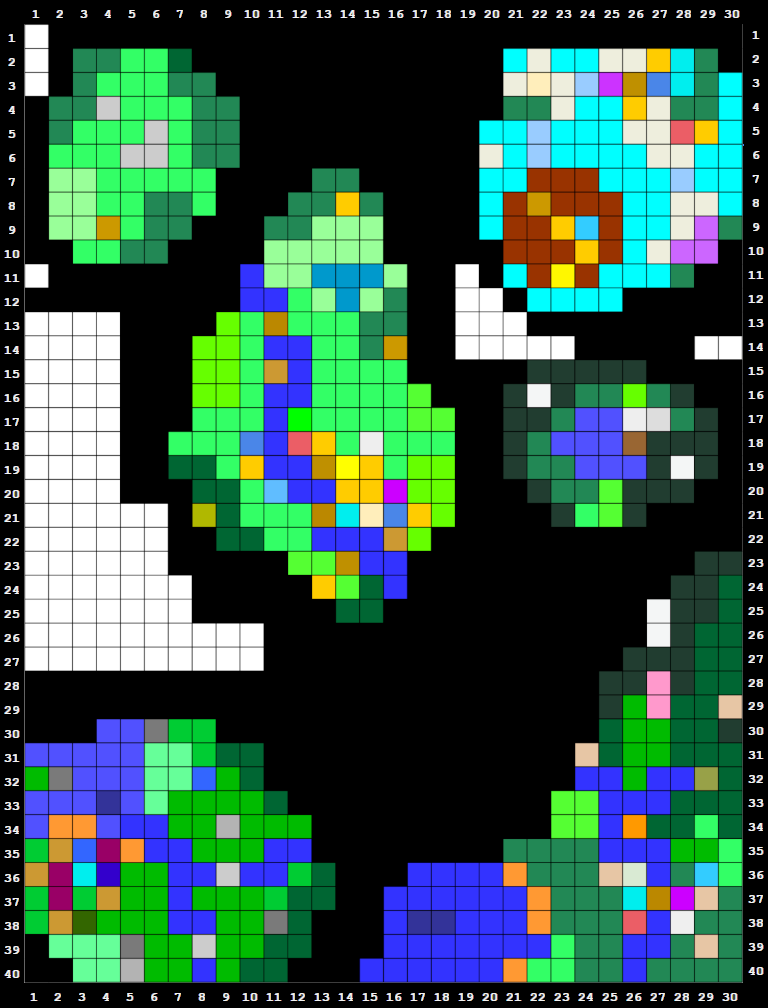
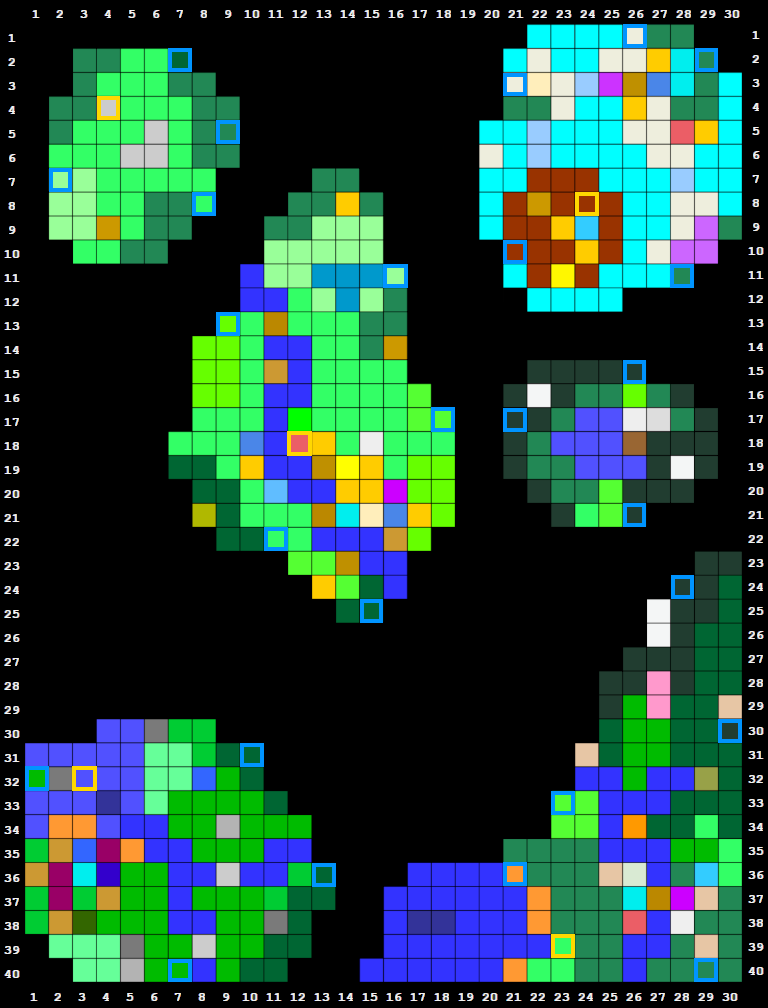
Updated

diff --git a/script.js b/script.js
@@ -859,12 +859,16 @@ createPortal( [encodeLocation(11,29,0),1,encodeLocation(12,34,1)] , ["Portal"], 
 createPortal( [encodeLocation(1,13,0),1,encodeLocation(1,13,1)] , ["Portal"], [5]);
 createPortal( [encodeLocation(39,39,0),1,encodeLocation(2,37,2)] , ["Portal"], [10]);
 createPortal( [encodeLocation(24,26,0),1,encodeLocation(12,18,1)] , ["Portal"], [10]);	// updated
+createPortal( [encodeLocation(12,18,1),1,encodeLocation(24,26,0)] , ["Portal"], [10]);	// updated
 createPortal( [encodeLocation(11,29,0),1,encodeLocation(12,34,1)] , ["Portal"], [5]);
-createPortal( [encodeLocation(22,38,0),1,encodeLocation(3,32,1)] , ["Portal"], [5]);    // pdated
+createPortal( [encodeLocation(22,38,0),1,encodeLocation(3,32,1)] , ["Portal"], [5]);    // Updated
+createPortal( [encodeLocation(3,32,1),1,encodeLocation(22,38,0)] , ["Portal"], [5]);    // Updated
 createPortal( [encodeLocation(18,18,0),1,encodeLocation(11,13,2)] , ["Portal"], [5]);
 createPortal( [encodeLocation(38,31,0),1,encodeLocation(28,31,2)] , ["Portal"], [5]);
 createPortal( [encodeLocation(39,14,0),1,encodeLocation(4,4,1)] , ["Portal"], [5]);    // updated
+createPortal( [encodeLocation(4,4,1),1,encodeLocation(39,14,0)] , ["Portal"], [5]);    // updated    
 createPortal( [encodeLocation(22,1,0),1,encodeLocation(24,8,1)] , ["Portal"], [5]);    // updated
+createPortal( [encodeLocation(24,8,1),1,encodeLocation(22,1,0)] , ["Portal"], [5]);    // updated
 createPortal( [encodeLocation(8,34,0),1,encodeLocation(24,27,2)] , ["Portal"], [10]);
 createPortal( [encodeLocation(15,10,0),2,encodeLocation(25,7,2),encodeLocation(15,10,3)] , ["Portal", "Sewer Entrance"], [10,0]);
 
@@ -913,19 +917,34 @@ createPortal( [encodeLocation(34,36,0),7,encodeLocation(26,3,0),encodeLocation(1
 
 
 // ELYSIUM
-createPortal( [encodeLocation(4,4,1),1,encodeLocation(24,26,0)] , ["Portal"], [10]);
-createPortal( [encodeLocation(1,13,1),1,encodeLocation(1,13,0)] , ["Portal"], [5]);
-
-createPortal( [encodeLocation(7,6,1),3,encodeLocation(25,7,1),encodeLocation(11,13,1),      encodeLocation(7,6,2)] , ["Ferry","Ferry","Ferry"], [0,0,5]);
-createPortal( [encodeLocation(11,13,1),4,encodeLocation(7,6,1),encodeLocation(13,25,1),      encodeLocation(11,13,2), encodeLocation(39,14,0)] , ["Ferry","Ferry","Ferry","Gate"], [0,0,5,5]);
-createPortal( [encodeLocation(13,25,1),3,encodeLocation(11,13,1),encodeLocation(12,34,1),      encodeLocation(13,25,2)] , ["Ferry","Ferry","Ferry"], [0,0,5]);
-createPortal( [encodeLocation(12,34,1),4,encodeLocation(13,25,1),encodeLocation(21,38,1),      encodeLocation(12,34,2), encodeLocation(11,29,0)] , ["Ferry","Ferry","Ferry", "Portal"], [0,0,5,5]);  
-createPortal( [encodeLocation(21,38,1),3,encodeLocation(12,34,1),encodeLocation(28,31,1),      encodeLocation(21,38,2)] , ["Ferry","Ferry","Ferry"], [0,0,5]);
-createPortal( [encodeLocation(28,31,1),4,encodeLocation(21,38,1),encodeLocation(27,17,1),      encodeLocation(28,32,2), encodeLocation(22,1,0)] , ["Ferry","Ferry","Ferry","Ferry"], [0,0,5,5]);  
-createPortal( [encodeLocation(27,17,1),3,encodeLocation(28,31,1),encodeLocation(25,7,1),      encodeLocation(27,17,2)] , ["Ferry","Ferry","Ferry"], [0,0,5]);
-createPortal( [encodeLocation(25,7,1),4,encodeLocation(27,17,1),encodeLocation(7,6,1),      encodeLocation(25,7,2),  encodeLocation(17,18,3)] , ["Ferry","Ferry","Ferry", "Portal"], [0,0,5,5]);  
-
-
+createPortal( [encodeLocation(7,2,1),1,encodeLocation(7,40,1)] , ["Tunnel"], [0]);
+createPortal( [encodeLocation(7,40,1),1,encodeLocation(7,2,1)] , ["Tunnel"], [0]);
+createPortal( [encodeLocation(9,5,1),1,encodeLocation(21,3,1)] , ["Tunnel"], [0]);
+createPortal( [encodeLocation(21,3,1),1,encodeLocation(9,5,1)] , ["Tunnel"], [0]);    
+createPortal( [encodeLocation(2,7,1),1,encodeLocation(29,2,1)] , ["Tunnel"], [0]);
+createPortal( [encodeLocation(29,2,1),1,encodeLocation(2,7,1)] , ["Tunnel"], [0]);    
+createPortal( [encodeLocation(8,8,1),1,encodeLocation(9,13,1)] , ["Tunnel"], [0]);
+createPortal( [encodeLocation(9,13,1),1,encodeLocation(8,8,1)] , ["Tunnel"], [0]);
+createPortal( [encodeLocation(11,22,1),1,encodeLocation(10,31,1)] , ["Tunnel"], [0]);
+createPortal( [encodeLocation(10,31,1),1,encodeLocation(11,22,1)] , ["Tunnel"], [0]);
+createPortal( [encodeLocation(15,25,1),1,encodeLocation(23,33,1)] , ["Tunnel"], [0]);
+createPortal( [encodeLocation(23,33,1),1,encodeLocation(15,25,1)] , ["Tunnel"], [0]);
+createPortal( [encodeLocation(18,17,1),1,encodeLocation(21,17,1)] , ["Tunnel"], [0]);
+createPortal( [encodeLocation(21,17,1),1,encodeLocation(18,17,1)] , ["Tunnel"], [0]);
+createPortal( [encodeLocation(16,11,1),1,encodeLocation(21,10,1)] , ["Tunnel"], [0]);
+createPortal( [encodeLocation(21,10,1),1,encodeLocation(16,11,1)] , ["Tunnel"], [0]);    
+createPortal( [encodeLocation(26,1,1),1,encodeLocation(29,40,1)] , ["Tunnel"], [0]);
+createPortal( [encodeLocation(29,40,1),1,encodeLocation(26,1,1)] , ["Tunnel"], [0]);
+createPortal( [encodeLocation(28,11,1),1,encodeLocation(26,15,1)] , ["Tunnel"], [0]);
+createPortal( [encodeLocation(26,15,1),1,encodeLocation(28,11,1)] , ["Tunnel"], [0]);
+createPortal( [encodeLocation(16,15,1),1,encodeLocation(28,11,1)] , ["Tunnel"], [0]);
+createPortal( [encodeLocation(26,21,1),1,encodeLocation(28,24,1)] , ["Tunnel"], [0]);
+createPortal( [encodeLocation(28,24,1),1,encodeLocation(26,21,1)] , ["Tunnel"], [0]);
+createPortal( [encodeLocation(30,30,1),1,encodeLocation(1,32,1)] , ["Tunnel"], [0]);
+createPortal( [encodeLocation(1,32,1),1,encodeLocation(30,30,1)] , ["Tunnel"], [0]);
+createPortal( [encodeLocation(21,36,1),1,encodeLocation(13,36,1)] , ["Tunnel"], [0]);
+createPortal( [encodeLocation(13,36,1),1,encodeLocation(21,36,1)] , ["Tunnel"], [0]);
+    
 // STYGIA
 createPortal( [encodeLocation(2,37,2),1,encodeLocation(39,39,0)] , ["Portal"], [10]);
 createPortal( [encodeLocation(24,27,2),1,encodeLocation(8,34,0)] , ["Portal"], [10]);
